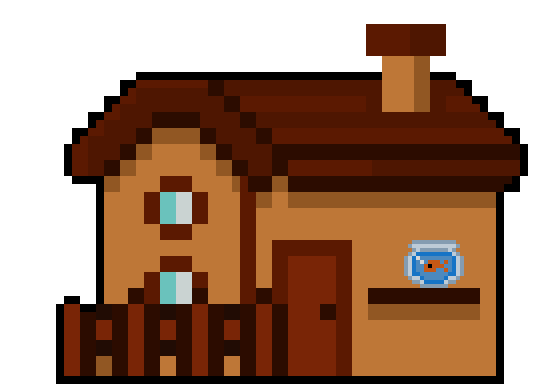
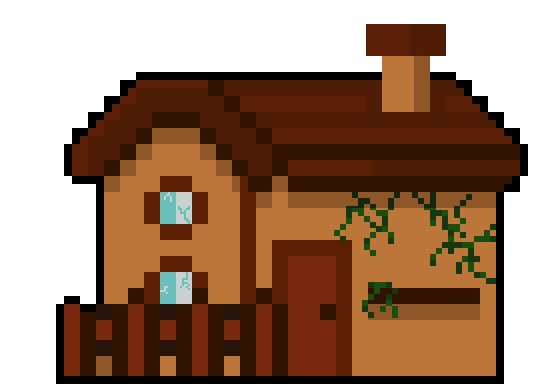
new sign and house textures

diff --git a/src/main.js b/src/main.js
@@ -69,7 +69,7 @@ window.onload = function() {
 
   function preload() {
     // Important
-    this.load.spritesheet('player', '../assets/player_spritesheet3.png', { frameWidth: 64, frameHeight: 64 });
+    this.load.spritesheet('player', '../assets/player_spritesheet.png', { frameWidth: 64, frameHeight: 64 });
     this.load.json('portfolio', '../assets/portfolio.json');
 
     // Visuel interactif
